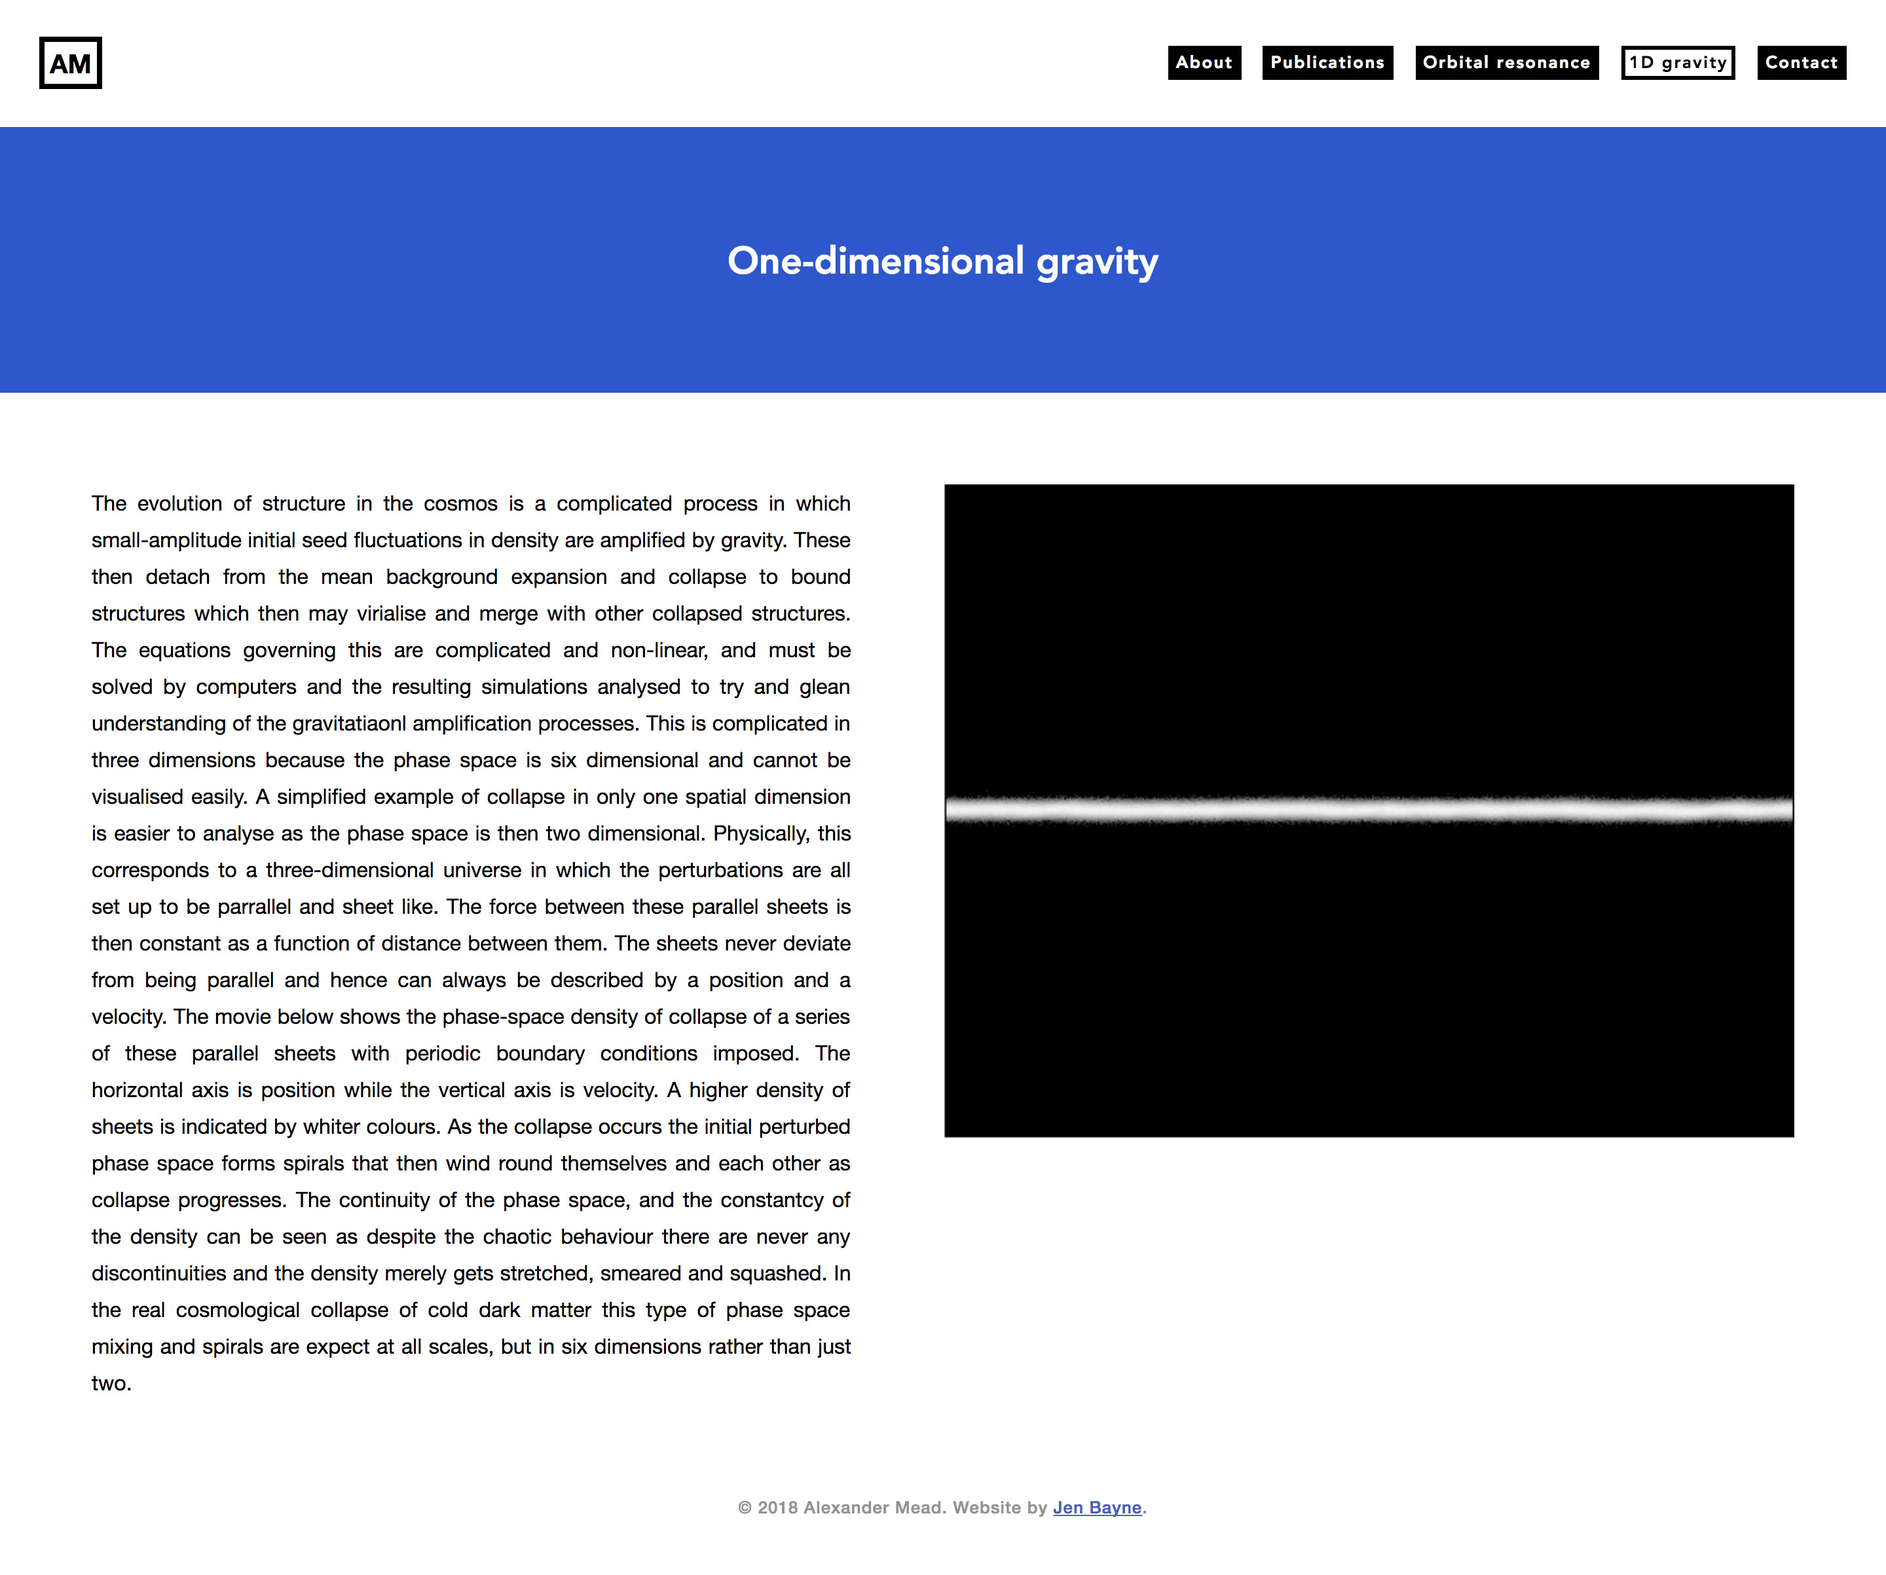
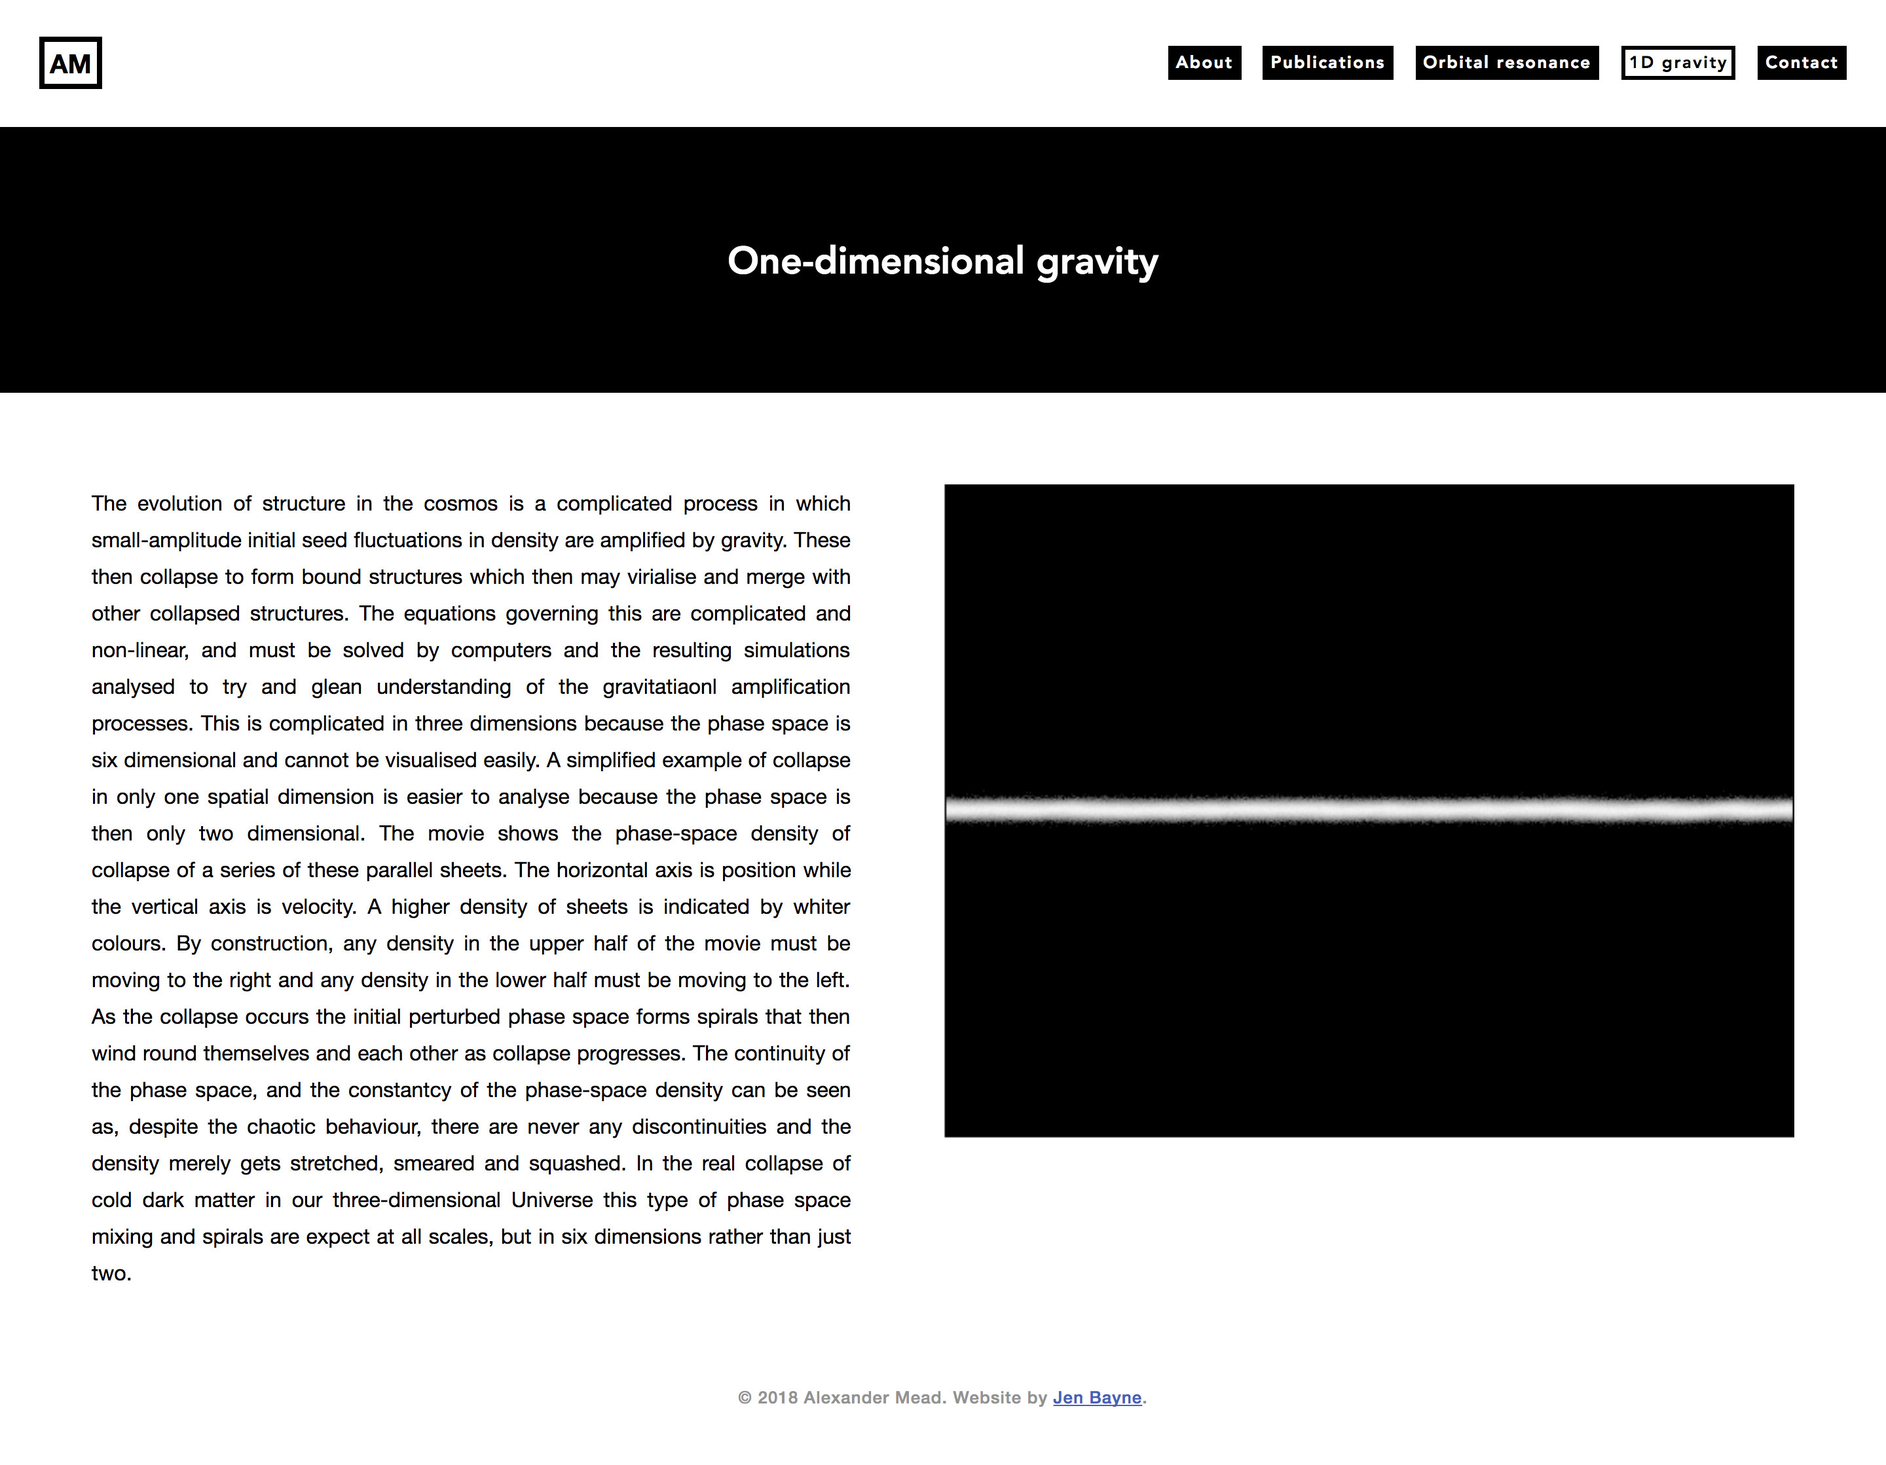
Updated background colour

diff --git a/mead/orbital.html b/mead/orbital.html
@@ -10,52 +10,91 @@
 		<script src="https://ajax.googleapis.com/ajax/libs/jquery/1.11.1/jquery.min.js"></script>
 		<script type="text/javascript" src="script.js"></script>
 		<script type="text/javascript" src="menu.js"></script>
-	<!--[if IE]>
+		<!--[if IE]>
 		<script src="//html5shiv.googlecode.com/svn/trunk/html5.js"></script>
-	<![endif]-->
+		<![endif]-->
 	</head>
- 	<body>
+  	<body>
     	<div class="page-wrapper">	
       
-      	<!-- nav -->
+      <!-- nav -->
 
 			<div class="nav-container clearfix" id="nav-home">
 				<div class="nav-logo">
 					<p class="logo"><a href="index.html">AM</a></p>
 				</div>
 				<nav class="nav-menu">
-				  <ul>
-				    <li><a href="index.html#about">About</a></li>
-				    <li><a href="index.html#publications">Publications</a></li>
-				    <li><a href="#" class="selected">Orbital resonance</a></li>
-				    <li><a href="gravity.html">1D gravity</a></li>
-				    <li><a href="index.html#contact">Contact</a></li>
-				  </ul>
+					<ul>
+						<li><a href="index.html#about">About</a></li>
+						<li><a href="index.html#publications">Publications</a></li>
+						<li><a href="#" class="selected">Orbital resonance</a></li>
+						<li><a href="gravity.html">1D gravity</a></li>
+						<li><a href="index.html#contact">Contact</a></li>
+					</ul>
 				</nav>
 			</div>
 
-		<!-- intro -->
+      <!-- intro -->
 
-			<div class="intro">
-		  		<h3>Orbital resonance</h3>
-			</div>
-    	
-    	<!-- body -->
-      		
+      		<div class="intro">
+				<h3>Orbital resonance</h3>
+      		</div>
+      
+      <!-- body -->
+      
 	      	<div class="subpage-wrapper">
-				<div class="content-wrapper">
-	  				<p>Lorem ipsum dolor sit amet, consectetur adipiscing elit. Vestibulum id laoreet felis, vel luctus augue. Praesent lorem lorem, porta quis consectetur sit amet, suscipit id felis. Vestibulum pretium rutrum diam in laoreet. Donec ultrices dolor pulvinar, scelerisque neque id, ultrices tortor. Aenean vel iaculis sem. Cras at scelerisque sapien, at auctor ante. Duis dapibus feugiat dictum. Aenean neque lacus, finibus quis dui at, tincidunt ultrices erat.</p>
-	  				<div class="gif">
-	    				<img src="images/animation.gif">
-	  				</div>
+				<div class="content-wrapper spacer clearfix">
+			  		<div class="subpage-left">
+			  		  <p>This movie shows a blue planet orbiting a red star in a special way that is called 'spin-orbit resonance', where the spin period of the planet is connected to the orbital period by a simple ratio. In this example, the planet spins exactly three times on its axis fo every two orbits of the star. The right-hand side of the movie shows the orbit, while the left-hand side shows the flux recieved and what the sun looks like from the point of view of an observer on the equator of the planet at the location of the large arrow. A 3:2 spin-orbit resonance is exactly the configuration of the planet Mercury. For comparison, the Earth spins ~366 times per orbit (not ~365, think about it!), and is not in a resonant configuation. Tidal forces exerted by the Sun on Mercurcy are thought to be responsible for driving it into this 3:2 spin-orbit resonance, much in the same way that tidal forces from Earth have driven the Moon into a 1:1 spin-orbit resonance, which is why you only ever sees one face of the moon.</p>
+			  		</div>
+			  		<div class="subpage-right">
+			    		<img src="images/32so_e0p00_beta0p00.gif">
+			  		</div>
+			  	</div>
+			  	<div class="content-wrapper spacer clearfix">
+			  		<div class="subpage-left">
+			  			<p>It is thought that some eccentricity is required to drive planets into resonances such as 3:2, and in the previous example the orbit of the planet was circular. In this movie, the orbit has changed to be mildly eccentric, with e = 0.15. The large arrow denotes the 'up' direction from the point of view of our observer: the sun is directly overhead when this arrow is pointing towards the star and this is then mid-day. The two smaller arrows indicate the horizon and when one of these is pointing towards the star; it would be either sunrise or sunset for our observer. Note that the passage of the sun slows down in the sky around mid-day, which is a bit strange. A quick look at the previous movies, combined with a small amount of thinking, will convince you that one 'day' lasts two 'years' (orbital periods) for our observer, and that the system is exactly periodic over two orbital periods. Is this interesting? Maybe a bit.</p>
+			  		</div>
+					<div class="subpage-right">
+						<img src="images/32so_e0p15_beta0p00.gif">
+					</div>
+				</div>
+				<div class="content-wrapper spacer clearfix">
+					<div class="subpage-left">
+			  			<p>Things get more interesting when we consider higher eccentricities for the same 3:2 system, such as in this movie where e = 0.25. The eccentricity means two things for our observer: First, that the distance to the star changed appreciably over one orbit, hence the sun in the sky appears larger or smaller depending on the orbtial phase. Second, the angular velocity changes significantly over the orbit, with it being fastest when the planet is cloesest to the star and vice versa. Note that the sun actually moves backwards in the sky here around mid-day! How the sun transitions across the sky for our observer depends on a competition between the (constant) angular speed of the planet and the (not constant) angular speed of the orbit. For these higher eccentricities the increased orbital angular speed around the point of orbital closest approach means that actually the sun moves backwards in the sky for a short time, prolonging the mid-day for our observer.</p>
+			  		</div>
+			  		<div class="subpage-right">
+			    		<img src="images/32so_e0p25_beta0p00.gif">
+			  		</div>
+			  	</div>
+			  	<div class="content-wrapper spacer clearfix">
+			  		<div class="subpage-left">
+			  			<p>Things get stranger if we consider our observer to be at a different longitude on the surface of the planet, such as in this movie. In this case the 'day' is acutally broken up into three distinct phases of daylight and the sun will rise thrice and set thrice throughout the 'day'. Pretty weird! For this longitude, this manifests as one longer period of daylight when the planet is furthest from the star and then two short bursts of light with the sun closer, but low in the sky. Note that this also means that the total received flux, and the rate at which this flux is depositied, varies as a function of planetary longitude, as well as the standard latitudinal dependence. This is different to Earth, where all longitudes are equivalent in terms of the flux they receive over a year.</p>
+			  		</div>
+			  		<div class="subpage-right">
+			    		<img src="images/32so_e0p25_beta0p50.gif">
+			  		</div>
+			  	</div>
+			  	<div class="content-wrapper spacer clearfix">
+			  		<div class="subpage-left">
+			  			<p>As the eccentricity becomes more extreme so does the weird behaviour. When e = 0.4, as in this example, the observer recieves more instantanoues flux from the short sunset-sunrise times than they do during the longer day, so the best tanning time occurs when the sun is low in the sky, but compensatingly close. There is a critical value of the eccentricity at which the retrograde motion of the sun and the corresponding strange behaviour becomes possible. It turns out that this can be obtained as the solution to a cubic equation, and the critical eccentricity is ~0.193. The eccentricity of Mercury is ~0.205 so the retrograde motion of the Sun would only be visible for a short time, and there are only very specific longitudes on the surface of Mercurcy when you would see a triple sunrise pheonomenan over the course of one 'day', which on Mercurcy lasts for ~176 Earth days.</p>
+			  		</div>
+			  		<div class="subpage-right">
+			    		<img src="images/32so_e0p40_beta0p50.gif">
+			  		</div>
+			  	</div>
+			  	<div class="content-wrapper">
+			  		<div class="subpage-center">
+			  		  <p>This may all seem like an academic exercise, but many planets have been discovered around low-mass stars, and the habitable zone of these stars are much near the star compared to that of our Sun. The relative importance of tidal forces increases more quickly than the gravitational force as you go near a star, it has an r-cubed dependance, rathern than r-squared, so planets in the habitable zone around low-mass stars are expected to be in spin-orbit coupled configurations. These could be 1:1, like the Moon-Earth resonance, but other situations such as 3:2, 2:1, 5:2, ... are also possible. So there could be funny aliens out there in the cosmos who have a very different conception of what a day means compared to that we have on earth. These aliens would also have to get used to the fact that the total received flux in one 'day' varies as a function of longitude.</p>
+			  		</div>
 				</div>
 	      	</div>
-	    
-		<!-- footer --> 
+      
+      <!-- footer --> 
 
-	      	<footer>
+      		<footer>
 				<p>&copy; 2018 Alexander Mead. Website by <a href="http://www.jen-bayne.com" target="_blank">Jen Bayne</a>.</p>
-	      	</footer>
-	    </div>
-	</body>
+      		</footer>
+    	</div>
+  	</body>
 </html>

diff --git a/mead/gravity.html b/mead/gravity.html
@@ -1,62 +1,65 @@
 <!DOCTYPE html>
 <html>
-	<head>
-		<title>One-dimensional Gravity | Alexander Mead</title>
-		<link rel='shortcut icon' href='images/favicon.ico' type='image/x-icon'/>
-		<meta charset="UTF-8">
-		<meta name="viewport" content="width=device-width, initial-scale=1">
-		<link rel="stylesheet" type="text/css" href="css/reset.css">
-		<link rel="stylesheet" type="text/css" href="css/main.css">
-		<script src="https://ajax.googleapis.com/ajax/libs/jquery/1.11.1/jquery.min.js"></script>
-		<script type="text/javascript" src="script.js"></script>
-		<script type="text/javascript" src="menu.js"></script>
+  <head>
+    <title>One-dimensional Gravity | Alexander Mead</title>
+    <link rel='shortcut icon' href='images/favicon.ico' type='image/x-icon'/>
+    <meta charset="UTF-8">
+    <meta name="viewport" content="width=device-width, initial-scale=1">
+    <link rel="stylesheet" type="text/css" href="css/reset.css">
+    <link rel="stylesheet" type="text/css" href="css/main.css">
+    <script src="https://ajax.googleapis.com/ajax/libs/jquery/1.11.1/jquery.min.js"></script>
+    <script type="text/javascript" src="script.js"></script>
+    <script type="text/javascript" src="menu.js"></script>
 
-	<!--[if IE]>
-		<script src="//html5shiv.googlecode.com/svn/trunk/html5.js"></script>
-	<![endif]-->
-	</head>
- 	<body>
-    	<div class="page-wrapper">	
+    <!--[if IE]>
+    <script src="//html5shiv.googlecode.com/svn/trunk/html5.js"></script>
+    <![endif]-->
+
+  </head>
+  <body>
+    <div class="page-wrapper">	
       
-      	<!-- nav -->
+      <!-- nav -->
 
-			<div class="nav-container clearfix" id="nav-home">
-				<div class="nav-logo">
-					<p class="logo"><a href="index.html">AM</a></p>
-				</div>
-				<nav class="nav-menu">
-				  <ul>
-				    <li><a href="index.html#about">About</a></li>
-				    <li><a href="index.html#publications">Publications</a></li>
-				    <li><a href="orbital.html">Orbital resonance</a></li>
-				    <li><a href="#" class="selected">1D gravity</a></li>
-				    <li><a href="index.html#contact">Contact</a></li>
-				  </ul>
-				</nav>
-			</div>
+      <div class="nav-container clearfix" id="nav-home">
+        <div class="nav-logo">
+          <p class="logo"><a href="index.html">AM</a></p>
+        </div>
+        <nav class="nav-menu">
+          <ul>
+            <li><a href="index.html#about">About</a></li>
+            <li><a href="index.html#publications">Publications</a></li>
+            <li><a href="orbital.html">Orbital resonance</a></li>
+            <li><a href="#" class="selected">1D gravity</a></li>
+            <li><a href="index.html#contact">Contact</a></li>
+          </ul>
+        </nav>
+      </div>
 
-		<!-- intro -->
+      <!-- intro -->
 
-			<div class="intro">
-		  		<h3>One-dimensional gravity</h3>
-			</div>
-	
-    	<!-- body -->
-      		
-	      	<div class="subpage-wrapper">
-				<div class="content-wrapper">
-	  				<p>Lorem ipsum dolor sit amet, consectetur adipiscing elit. Vestibulum id laoreet felis, vel luctus augue. Praesent lorem lorem, porta quis consectetur sit amet, suscipit id felis. Vestibulum pretium rutrum diam in laoreet. Donec ultrices dolor pulvinar, scelerisque neque id, ultrices tortor. Aenean vel iaculis sem. Cras at scelerisque sapien, at auctor ante. Duis dapibus feugiat dictum. Aenean neque lacus, finibus quis dui at, tincidunt ultrices erat.</p>
-	  				<div class="gif">
-	    				<img src="images/phasespace_1D.gif">
-	  				</div>	
-				</div>
-	      	</div>
-	    
-		<!-- footer --> 
+      <div class="intro">
+        <h3>One-dimensional gravity</h3>
+      </div>
+      
+      <!-- body -->
+        
+      <div class="subpage-wrapper">
+        <div class="content-wrapper clearfix">
+          <div class="subpage-left">
+            <p>The evolution of structure in the cosmos is a complicated process in which small-amplitude initial seed fluctuations in density are amplified by gravity. These then collapse to form bound structures which then may virialise and merge with other collapsed structures. The equations governing this are complicated and non-linear, and must be solved by computers and the resulting simulations analysed to try and glean understanding of the gravitatiaonl amplification processes. This is complicated in three dimensions because the phase space is six dimensional and cannot be visualised easily. A simplified example of collapse in only one spatial dimension is easier to analyse because the phase space is then only two dimensional. The movie shows the phase-space density of collapse of a series of these parallel sheets. The horizontal axis is position while the vertical axis is velocity. A higher density of sheets is indicated by whiter colours. By construction, any density in the upper half of the movie must be moving to the right and any density in the lower half must be moving to the left. As the collapse occurs the initial perturbed phase space forms spirals that then wind round themselves and each other as collapse progresses. The continuity of the phase space, and the constantcy of the phase-space density can be seen as, despite the chaotic behaviour, there are never any discontinuities and the density merely gets stretched, smeared and squashed. In the real collapse of cold dark matter in our three-dimensional Universe this type of phase space mixing and spirals are expect at all scales, but in six dimensions rather than just two.</p>
+          </div>
+          <div class="subpage-right">
+            <img src="images/phasespace_1D.gif">
+          </div>	
+        </div>
+      </div>
+    
+    <!-- footer --> 
 
-	      	<footer>
-				<p>&copy; 2018 Alexander Mead. Website by <a href="http://www.jen-bayne.com" target="_blank">Jen Bayne</a>.</p>
-	      	</footer>
-	    </div>
-	</body>
+      <footer>
+        <p>&copy; 2018 Alexander Mead. Website by <a href="http://www.jen-bayne.com" target="_blank">Jen Bayne</a>.</p>
+      </footer>
+    </div>
+  </body>
 </html>

diff --git a/mead/css/main.css b/mead/css/main.css
@@ -268,9 +268,9 @@ span.bold{
 
 .intro{
 	margin: 0;
-  	background-color: #2c53ce;
+  	background-color: #000;
   	width: 100%;
-  	padding: 210px 30px 110px 30px;
+  	padding: 180px 30px 80px 30px;
   	text-align: center;
 }
 
@@ -280,21 +280,31 @@ span.bold{
 	background-color: #FFF;
 }
 
-.gif{
-	width: 80%;
-	text-align: center;
-	margin: 0 auto;
+.subpage-left{
+	float: left;
+	width: 50%;
+	padding-right: 70px;
 }
 
-.gif img{
+.spacer{
+	padding-bottom: 70px;
+}
+
+.subpage-right{
+	float: right;
+	width: 50%;
+}
+
+.subpage-right img{
 	width: 100%;
 	text-align: center;
 }
 
+.subpage-center{
+	width: 100%;
+}
+
 .subpage-wrapper p{
-	width: 60%;
-	margin: 0 auto;
-	padding: 0 0 70px 0;
 	text-align: justify;
 }
 
@@ -356,13 +366,20 @@ footer a:hover{
 		width: 80%;
 	}
 
-	.gif{
+	.subpage-left{
+		float: none;
 		width: 100%;
+		padding-right: 0;
+		padding-bottom: 60px;
 	}
 
-	.subpage-wrapper p{
-		width: 80%;
+	.spacer{
 		padding-bottom: 60px;
+	}
+
+	.subpage-right{
+		float: none;
+		width: 100%;
 	}
 }
 
@@ -396,7 +413,7 @@ footer a:hover{
 	}
 
 	.intro{
-	  	padding-top: 110px;
+	  	padding-top: 80px;
 	}
 
 	.column-left{
@@ -414,10 +431,6 @@ footer a:hover{
 	.publication{
 		width: 100%;
 	}
-
-	.subpage-wrapper p{
-		width: 100%;
-	}
 }
 
 @media only screen and (max-width: 600px){
@@ -426,11 +439,17 @@ footer a:hover{
 		width: 100%;
 		text-align: left;
 	}
+
 	nav.nav-menu ul{
 		padding-top: 10px;
 	}
+
 	nav.nav-menu ul li{
 		height: 31px;
+	}
+
+	.subpage-wrapper p{
+		font-size: .95em;
 	}
 }
 
@@ -447,15 +466,19 @@ footer a:hover{
 		padding: 40px;
 	}
 
-	.subpage-wrapper p{
-		padding-bottom: 40px;
-	}
-
 	#avatar{
 		padding-bottom: 40px;
 	}
 
 	h2{
+		padding-bottom: 40px;
+	}
+
+	.subpage-left{
+		padding-bottom: 40px;
+	}
+
+	.spacer{
 		padding-bottom: 40px;
 	}
 
